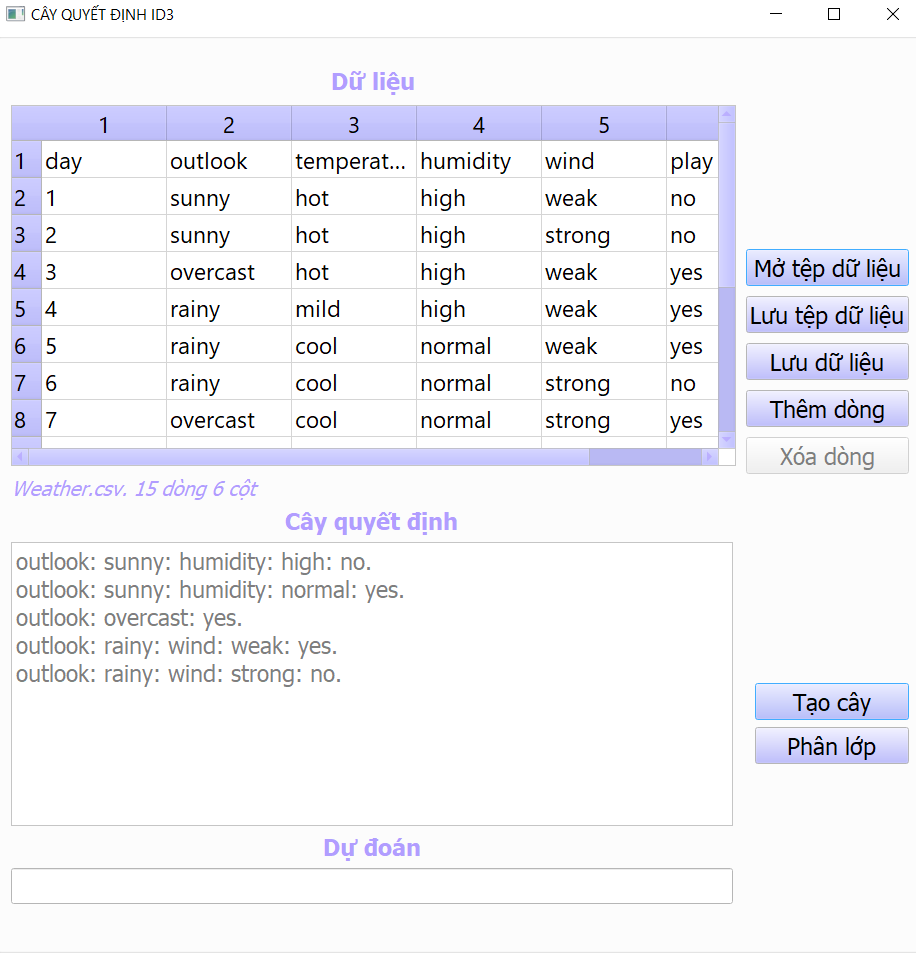
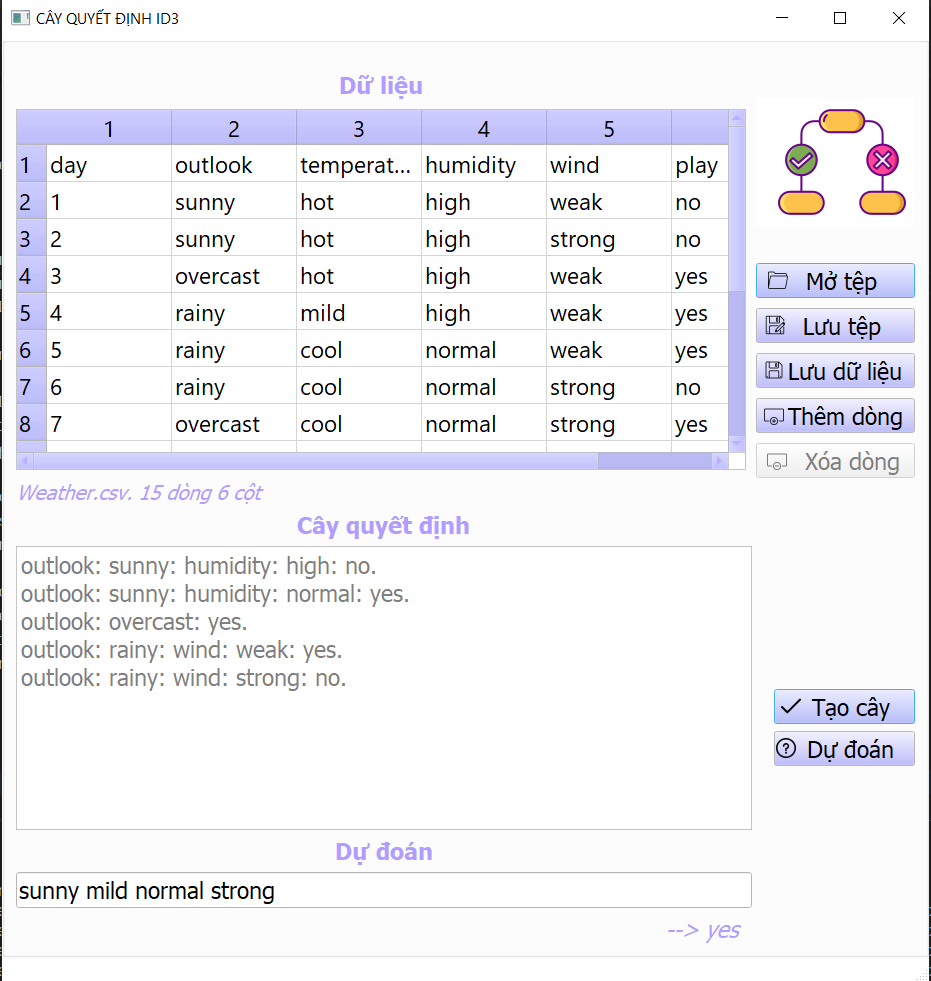
no message

diff --git a/DTID3_App.py b/DTID3_App.py
@@ -13,15 +13,24 @@ class MyWindow(QtWidgets.QMainWindow):
         uic.loadUi('DTID3_GUI.ui', self)
         self.model = QtGui.QStandardItemModel(self)
 
+        self._set_icon()
+
         self.btnImport.clicked.connect(self.on_Import_clicked)
         self.btnExport.clicked.connect(self.on_Export_clicked)
         self.btnSave.clicked.connect(self.on_Save_clicked)
         self.btnAdd.clicked.connect(self.on_Add_clicked)
         self.btnId3.clicked.connect(self.on_Id3_clicked)
         self.btnPredict.clicked.connect(self.on_Predict_clicked)
-        self.lineEditPredict.setDisabled(True)
         self.lineEditPredict.textChanged.connect(self.on_textchanged)
         self.tableViewInput.setModel(self.model)
+
+        self.lineEditPredict.setDisabled(True)
+        self.btnExport.setDisabled(True)
+        self.btnSave.setDisabled(True)
+        self.btnAdd.setDisabled(True)
+        self.btnId3.setDisabled(True)
+        self.btnPredict.setDisabled(True)
+        
         # self.tableViewInput.horizontalHeader().setStretchLastSection(True) #optional
 
         self.fileName = ''
@@ -30,6 +39,26 @@ class MyWindow(QtWidgets.QMainWindow):
         self.posClassify = -1
         self.tree = DTID3_Class.DTreeID3(self.posClassify)
 
+    def _set_icon(self):
+        imgDir = './GUI_image/'
+        openIcon = QtGui.QIcon(imgDir + 'openIcon')
+        saveIcon = QtGui.QIcon(imgDir + 'saveIcon')
+        saveAsIcon = QtGui.QIcon(imgDir + 'saveAsIcon')
+        runIcon = QtGui.QIcon(imgDir + 'runIcon')
+        pixmapLogo = QtGui.QPixmap(imgDir + 'logoIconLarge')
+        resIcon = QtGui.QIcon(imgDir + 'saveResIcon')
+        addRowIcon = QtGui.QIcon(imgDir + 'addRowIcon')
+        deleteRowIcon = QtGui.QIcon(imgDir + 'deleteRowIcon')
+        predictIcon = QtGui.QIcon(imgDir + 'predictIcon')
+
+        self.btnImport.setIcon(openIcon)
+        self.btnExport.setIcon(saveAsIcon)
+        self.btnSave.setIcon(saveIcon)
+        self.btnId3.setIcon(runIcon)
+        self.btnAdd.setIcon(addRowIcon)
+        self.btnDelete.setIcon(deleteRowIcon)
+        self.btnPredict.setIcon(predictIcon)        
+        self.labelLogo.setPixmap(pixmapLogo)
         
     def on_textchanged(self):
         self.labelPredict.clear()
@@ -90,25 +119,16 @@ class MyWindow(QtWidgets.QMainWindow):
         if dataPath:
             self.model.clear()
             self._import_file(self.fileName)
-            self.btnExport.setDisabled = False
-
+            
             self.listInput = self._get_list_from_QStandardItemModel()
 
             self.plainTextDTree.clear()
             
+            self.btnExport.setDisabled(False)
+            self.btnAdd.setDisabled(False)
+            self.btnId3.setDisabled(False)
+            self.btnSave.setDisabled(False)
             
-
-            # # Hint bang placeholdertext cho o lineEditText.
-            # firstValueRow = list(dataFrame.iloc[0])[:len(list(dataFrame.iloc[0])) - 1]
-            # firstRowStr = 'Ví dụ : '
-            # for value in range(len(firstValueRow) - 1):
-            #     firstRowStr += str(firstValueRow[value]) + ','
-            # firstRowStr += str(firstValueRow[-1])
-            # firstRowStr = firstRowStr.rstrip()
-            # self.lineEditPredict.setPlaceholderText(firstRowStr)
-            # # set enabled lineeditPredict
-            # self.lineEditPredict.setDisabled(False)
-
 
     def on_Id3_clicked(self):
         self.tree = DTID3_Class.DTreeID3(self.posClassify)
@@ -120,28 +140,22 @@ class MyWindow(QtWidgets.QMainWindow):
             strAllBranch += branch + '\n' 
         self.plainTextDTree.insertPlainText(strAllBranch)
         # Hint ở ô dự đoán dữ liệu mới.
-
+        strHint = 'Ví dụ:'
+        for index in range(1, len(self.tree.listObject[0]) - 1):
+            strHint += ' ' + self.tree.listObject[0][index]
         
-    def on_Predict_clicked(self):
-        instanceDict = dict()
-        instanceStr = self.lineEditPredict.text()
-        if not instanceStr:
-            self.labelPredict.setText('Chưa nhập giá trị.')
-        if not self.tree:
-            self.labelPredict.setText('Chưa có cây quyết định.')
-        if instanceStr:
-            instanceList = instanceStr.split(',')
-            for index in range(len(self.attributes)):
-                instanceDict[self.attributes[index]] = instanceList[index]
+        self.lineEditPredict.setPlaceholderText(strHint)
+        self.lineEditPredict.setDisabled(False)
+        self.btnPredict.setDisabled(False)
 
-            instanceDict = pd.Series(instanceDict)
-            predictInstance = ID3.predict(instanceDict, self.tree)
-            self.labelPredict.setText('-->{}   '.format(predictInstance))
-            make_folder.create_folder('./Output/')
-            predictNameFile = 'predict ' + self.labelInputName.text() + '.txt'
-            with open('./Output/' + predictNameFile, 'a', encoding = 'utf-8') as f:
-                f.write(instanceStr + '-->{}\n'.format(predictInstance))
-                
+
+    def on_Predict_clicked(self):
+        newValueStr = self.lineEditPredict.text()
+        if newValueStr == '':
+            self.labelPredict.setText('Chưa nhập giá trị.')
+        else:
+            res = self.tree._predict(newValueStr)
+            self.labelPredict.setText('--> {}  '.format(res))
 
 
 if __name__ == '__main__':

diff --git a/DTID3_Class.py b/DTID3_Class.py
@@ -4,7 +4,7 @@ from collections import defaultdict
 from datetime import datetime, timedelta
 
 folderInput = 'input'
-fileInput = ['weather', 'Bai2', 'BuyComputer', 'BHK']
+fileInput = ['weather', 'Bai2', 'BuyComputer', 'BHK', 'W']
 folderOutFile = 'outfile'
 fileLog = 'log'
 fileType = ['.txt']
@@ -272,7 +272,7 @@ def _read_file(inputFolder: str, inputFileName: str) -> list:
 def main():
     start = datetime.now()
 
-    listData = _read_file(folderInput, fileInput[0])
+    listData = _read_file(folderInput, fileInput[-1])
     indexClassifyAttribute = -1
     id3 = DTreeID3(indexClassifyAttribute)
     id3._set_inputData(listData)
